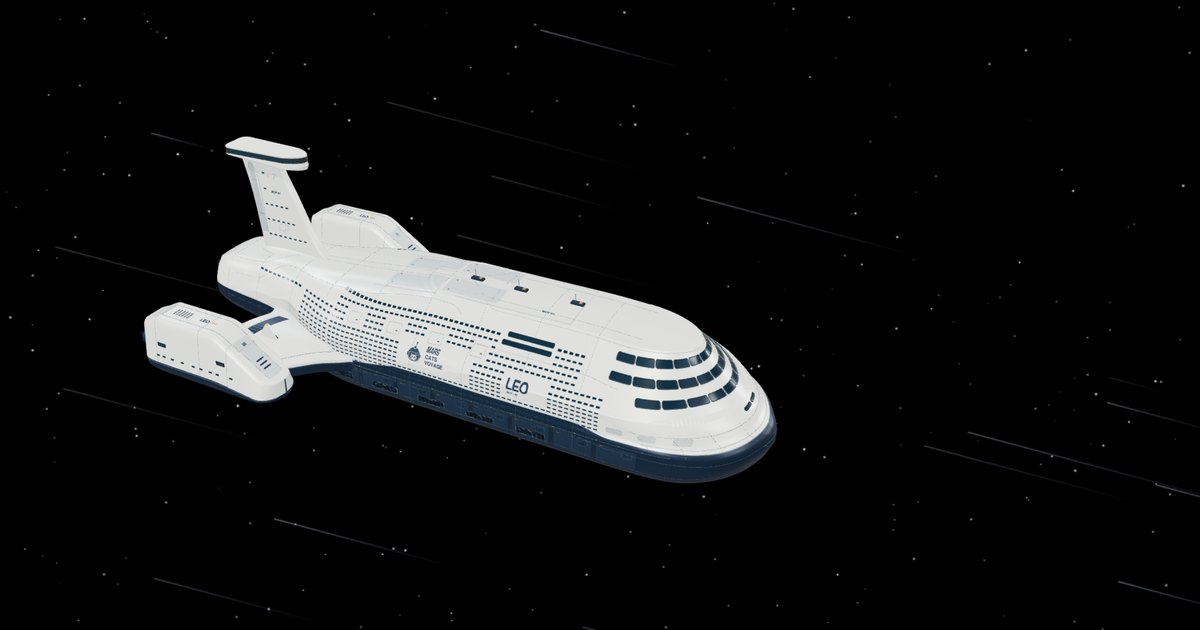
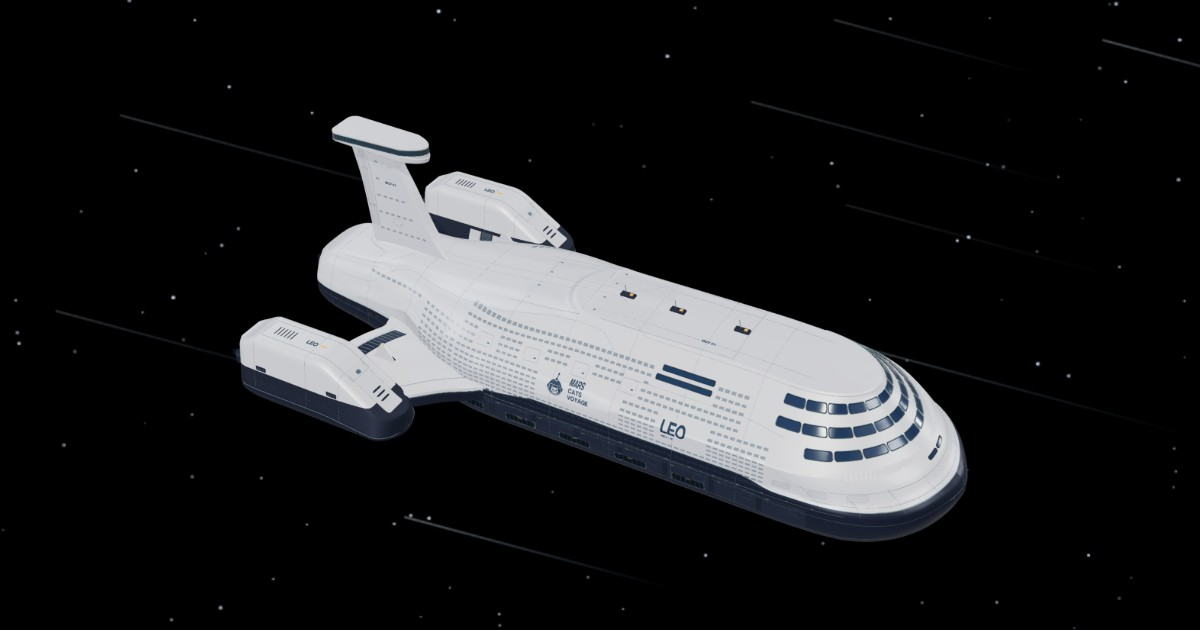
feat: share card shows Leo's concept paint
The link preview was rendered before the paint pass, so shared links still
showed dark window dashes and all-white pods. The new card is the live
concept angle rendered at 4x and cropped around the ship (1200x630, 54 KB).
The og:image URL carries ?v=2 so X, Discord and iMessage fetch the new
card instead of a cached copy.

diff --git a/src/viewer.html b/src/viewer.html
@@ -1,6 +1,6 @@
 <!doctype html>
 <html lang="en">
-<head><meta charset="UTF-8"><meta name="viewport" content="width=device-width, initial-scale=1"><title>Step inside Leo · Mars Cats Voyage</title><link rel="icon" href="brand/mark.png"><meta name="theme-color" content="#000000"><link rel="canonical" href="https://leo.marscatsvoyage.com/"><meta property="og:type" content="website"><meta property="og:site_name" content="Mars Cats Voyage"><meta property="og:title" content="Step inside Leo"><meta property="og:description" content="Explore Leo, the Mars Cats Voyage shuttle: 20 decks, 10 neighborhoods and room for 10,000 travelers."><meta property="og:url" content="https://leo.marscatsvoyage.com/"><meta property="og:image" content="https://leo.marscatsvoyage.com/brand/share.jpg"><meta property="og:image:width" content="1200"><meta property="og:image:height" content="630"><meta property="og:image:alt" content="Leo, the Mars Cats Voyage shuttle, crossing a starfield"><meta name="twitter:card" content="summary_large_image"><meta name="twitter:site" content="@MarsCatsVoyage">
+<head><meta charset="UTF-8"><meta name="viewport" content="width=device-width, initial-scale=1"><title>Step inside Leo · Mars Cats Voyage</title><link rel="icon" href="brand/mark.png"><meta name="theme-color" content="#000000"><link rel="canonical" href="https://leo.marscatsvoyage.com/"><meta property="og:type" content="website"><meta property="og:site_name" content="Mars Cats Voyage"><meta property="og:title" content="Step inside Leo"><meta property="og:description" content="Explore Leo, the Mars Cats Voyage shuttle: 20 decks, 10 neighborhoods and room for 10,000 travelers."><meta property="og:url" content="https://leo.marscatsvoyage.com/"><meta property="og:image" content="https://leo.marscatsvoyage.com/brand/share.jpg?v=2"><meta property="og:image:width" content="1200"><meta property="og:image:height" content="630"><meta property="og:image:alt" content="Leo, the Mars Cats Voyage shuttle, crossing a starfield"><meta name="twitter:card" content="summary_large_image"><meta name="twitter:site" content="@MarsCatsVoyage">
 <style>
 *{box-sizing:border-box}html,body{margin:0;height:100%;font-family:Inter,Segoe UI,Arial,sans-serif;color:#e4e9ed;background:#18232d}button,input,select{font:inherit}button,a,input,select{touch-action:manipulation}button{cursor:pointer}button:focus-visible,a:focus-visible,select:focus-visible,input:focus-visible{outline:2px solid #ffc47c;outline-offset:4px}button:disabled{opacity:.45;cursor:default}[hidden]{display:none!important}
 body{display:grid;grid-template-rows:78px 1fr 44px;overflow:hidden}.topbar{display:flex;align-items:center;gap:32px;padding:0 28px;border-bottom:1px solid #33434f;background:#192731;z-index:3}.brand{display:flex;align-items:baseline;gap:13px;white-space:nowrap}.brand strong{font-size:33px;font-weight:650;letter-spacing:5px}.brand span{font-size:10px;letter-spacing:2px;color:#93a7b5}.tabs::-webkit-scrollbar{display:none}.tabs{scrollbar-width:none;overflow-x:auto;display:flex;align-items:center;gap:5px;margin:auto}.tabs button{border:0;background:transparent;color:#aebdc8;padding:12px 17px;border-radius:5px;font-size:13px}.tabs button[aria-pressed=true]{color:#ffcf94;background:#394044}.edition{font-size:10px;letter-spacing:1.8px;color:#93a7b5;line-height:1.7;text-align:right}
